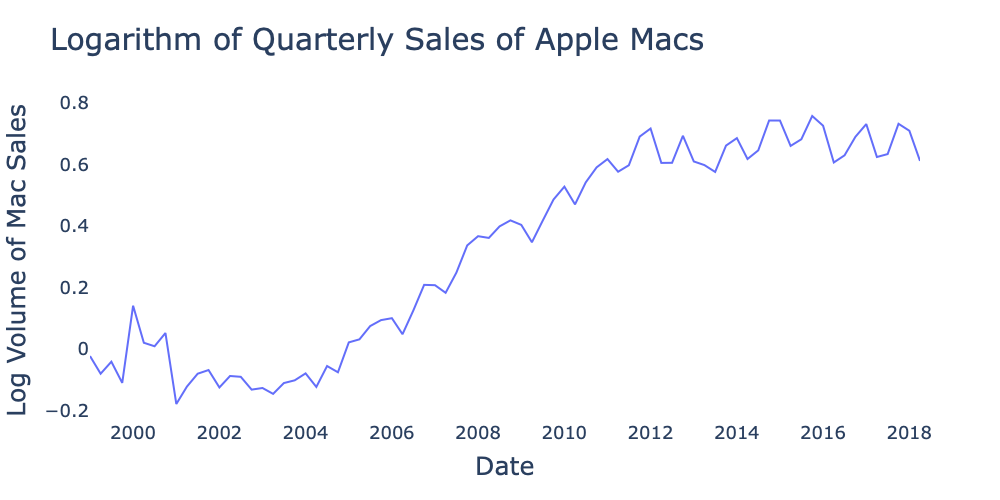
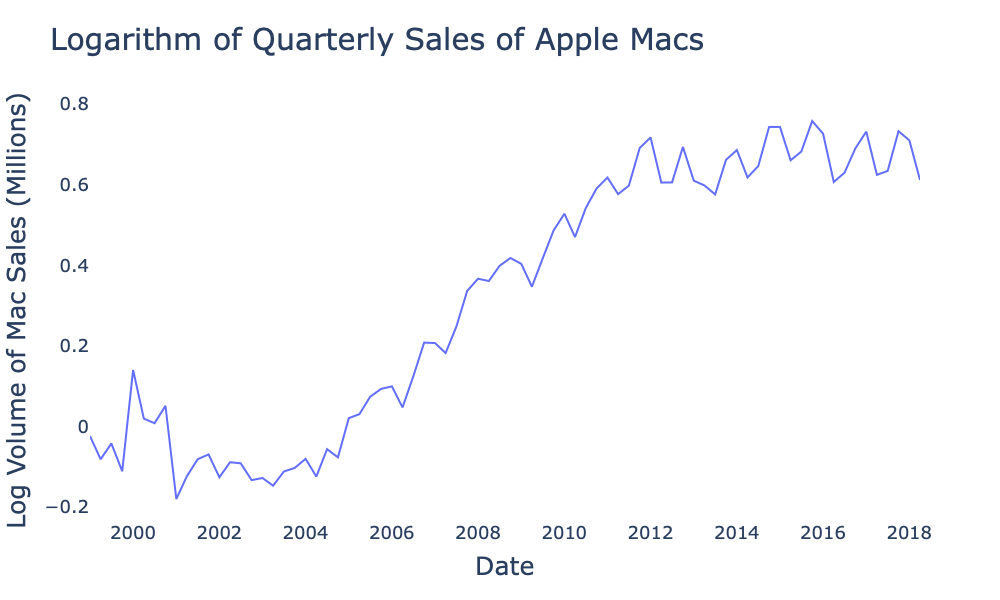
Specify sales are in millions of units

diff --git a/chapter_4_enforcing_stationarity/05_log_transform.md b/chapter_4_enforcing_stationarity/05_log_transform.md
@@ -15,7 +15,7 @@ Most of the time series we've seen so far have had constant variance across time
 width: 95%
 name: mac-sales-raw
 ---
-Quarterly sales figures for Apple Mac computers from [GitHub Apple Data Repository](https://github.com/kjhealy/apple).
+Quarterly sales figures for Apple Mac computers in millions from [GitHub Apple Data Repository](https://github.com/kjhealy/apple).
 :::
 
 {ref}`mac-sales-raw` appears to be non-stationary for all three reasons listed above. The mean shows a steady upward trend and the volumes appear to exhibit a seasonal effect with higher sales in the autumn and winter and lower sales in the spring and summer. As the size of the seasonal effect appears to depend on the overall trend, the variance also increases with time.
@@ -27,7 +27,7 @@ Let's first address the increasing variance by replacing the raw values with the
 width: 95%
 name: mac-sales-log
 ---
-Logarithm of quarterly sales figures for Apple Mac computers from [GitHub Apple Data Repository](https://github.com/kjhealy/apple).
+Logarithm of quarterly sales figures for Apple Mac computers in millions from [GitHub Apple Data Repository](https://github.com/kjhealy/apple).
 :::
 
 {ref}`mac-sales-log` is beginning to look better—the variance appears to be roughly constant across time. We can address both the trend and seasonality by taking the first and fourth differences of the log values, i.e.
@@ -43,7 +43,7 @@ $$ (log-diff)
 width: 95%
 name: mac-sales-log-diff
 ---
-First and fourth differences of logarithm of quarterly sales figures for Apple Mac computers from [GitHub Apple Data Repository](https://github.com/kjhealy/apple).
+First and fourth differences of logarithm of quarterly sales figures for Apple Mac computers in millions from [GitHub Apple Data Repository](https://github.com/kjhealy/apple).
 :::
 
 {ref}`mac-sales-log-diff` certainly looks stationary upon visual inspection. After we've covered autoregressive processes we will revisit this example with statistical tests designed to help determine stationarity.

diff --git a/chapter_4_enforcing_stationarity/03_difference.md b/chapter_4_enforcing_stationarity/03_difference.md
@@ -272,6 +272,7 @@ Detrended values of S&P 500 index for the 10-year period from January 2016 throu
 What would happen if we instead take the first difference? `pandas` has a `diff` method accessed by `df.diff(periods=1)`. Running the code
 
 :::{code-cell} ipython3
+# Pandas uses periods=1 by default.
 sp_500_diff = sp_500_df.diff().dropna()
 :::
 
